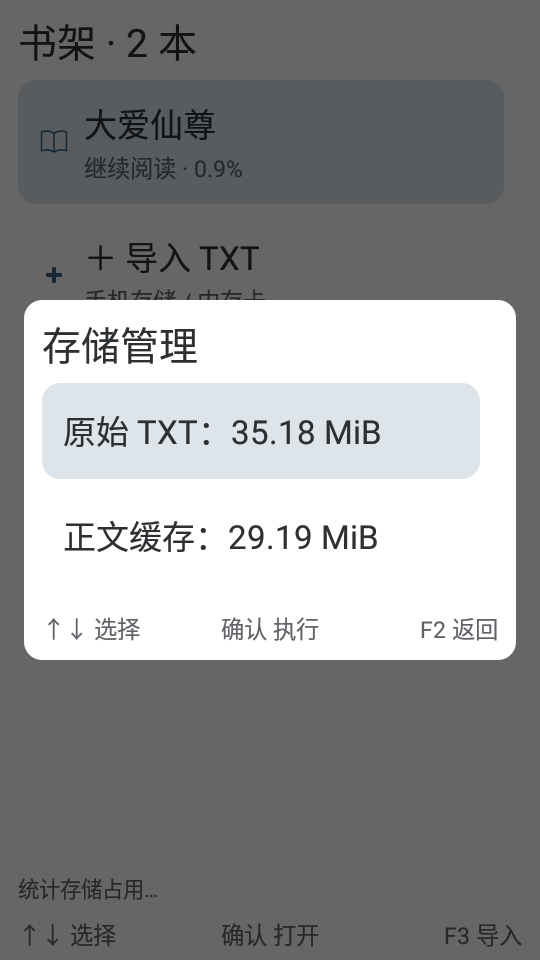
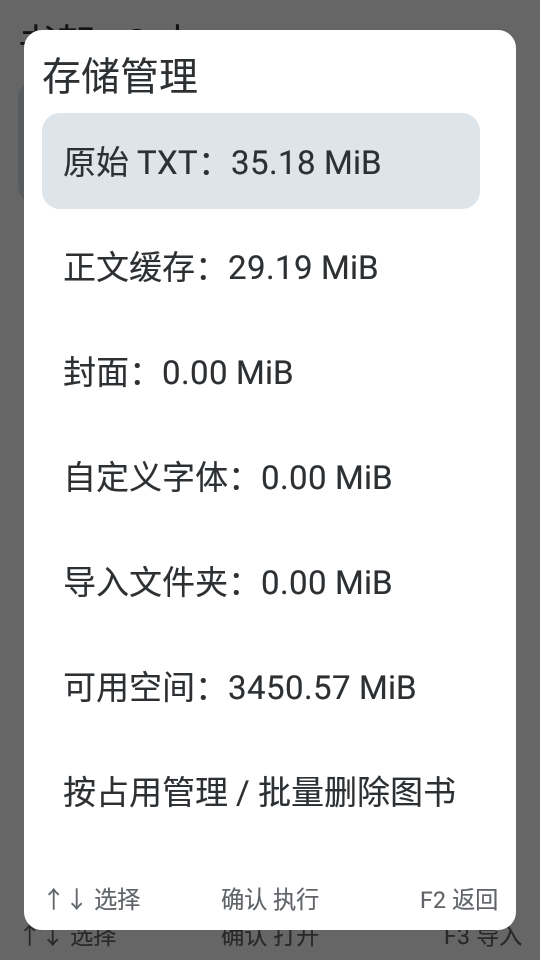
docs: record M2 release, device upgrade and focused validation

diff --git a/docs/superpowers/plans/2026-10-19-m2-daily-reading.md b/docs/superpowers/plans/2026-10-19-m2-daily-reading.md
@@ -30,8 +30,8 @@
 ## Task 1: Baseline and implementation record
 
 - [x] Preserve M1.5 work as local commit and tag; create feature branch.
-- [ ] Run baseline JVM/build/lint once; keep evidence in `tools/logs/m2-baseline.txt`.
-- [ ] Keep progress in `docs/M2_PROGRESS.md`; record interfaces and verification as work proceeds.
+- [x] Run baseline JVM/build/lint once; keep evidence in `tools/logs/m2-baseline.txt`.
+- [x] Keep progress in `docs/M2_PROGRESS.md`; record interfaces and verification as work proceeds.
 
 ## Task 2: Library lifecycle and storage (independent worker)
 
@@ -39,34 +39,34 @@
 
 **Produces:** `BookRepository.listPage(offset,limit)`, `count()`, `pageOf(id,size)`, `renameBook(id,title)`, `deleteBook(id)`, `removeBookmark(id,offset)`, `renameBookmark(id,offset,label)`, `ensureCache(id,observer)`, `rebuild(id,charset,observer)`; `CoverStore.remove(id)`; storage API specified in task brief.
 
-- [ ] Add focused deletion/upgrade/recovery tests, observe missing behavior before implementation where possible.
-- [ ] Implement v2 index migration, paged metadata and management, crash-safe book deletion and cache rebuild, validated source retention.
-- [ ] Implement storage scan/cache/import cleanup and allocated reserve, retained failed progress with bounded retry.
-- [ ] Report exact APIs and targeted evidence; root performs shared Android build/device run.
+- [x] Add focused deletion/upgrade/recovery tests, observe missing behavior before implementation where possible.
+- [x] Implement v2 index migration, paged metadata and management, crash-safe book deletion and cache rebuild, validated source retention.
+- [x] Implement storage scan/cache/import cleanup and allocated reserve, retained failed progress with bounded retry.
+- [x] Report exact APIs and targeted evidence; root performs shared Android build/device run.
 
 ## Task 3: Text search and TXT style boundary (independent worker)
 
 **Files:** new `TextSearcher.java` and JVM tests, `TxtPaginator.java`, new TXT document-session interface/adapter as specified in brief.
 
-- [ ] Write search tests for cross-8192-unit match, cancellation and bounded batches; observe RED.
-- [ ] Implement streaming/bounded search with snippets, continuation offset, no whole-book read.
-- [ ] Add configurable typeface to layout spec, retain existing constructor; expose a TXT session adapter behind a document-session contract.
-- [ ] Run targeted JVM tests and report exact APIs.
+- [x] Write search tests for cross-8192-unit match, cancellation and bounded batches; observe RED.
+- [x] Implement streaming/bounded search with snippets, continuation offset, no whole-book read.
+- [x] Add configurable typeface to layout spec, retain existing constructor; expose a TXT session adapter behind a document-session contract.
+- [x] Run targeted JVM tests and report exact APIs.
 
 ## Task 4: Native UI, navigation and settings integration
 
 **Files:** `MainActivity.java`, new `NavigationState.java`, `ReaderInputView.java`, `ReadingSettings.java`, optional controller/feature views; representative native tests.
 
-- [ ] Extract navigation state and reading settings, preserve existing measured key lifecycle.
-- [ ] Add native text/number input, search/continuation, jump and encoding workflows with cancellation tokens.
-- [ ] Add book/bookmark rename/delete and cover removal confirmation; paged shelf; storage multi-select and import cleanup.
-- [ ] Wire margin/line-height/typeface import and anchor-preserving relayout, automatic cache repair and progress retry on space recovery.
-- [ ] Add representative input, storage and location regression coverage; avoid visual matrix duplication.
+- [x] Extract navigation state and reading settings, preserve existing measured key lifecycle.
+- [x] Add native text/number input, search/continuation, jump and encoding workflows with cancellation tokens.
+- [x] Add book/bookmark rename/delete and cover removal confirmation; paged shelf; storage multi-select and import cleanup.
+- [x] Wire margin/line-height/typeface import and anchor-preserving relayout, automatic cache repair and progress retry on space recovery.
+- [x] Add representative input, storage and location regression coverage; avoid visual matrix duplication.
 
 ## Task 5: Verify, review and deliver
 
-- [ ] Build debug/test and release, run JVM suite and targeted native tests on an explicit device.
-- [ ] Request one independent whole-change review focused on data lifecycle/input/stale tasks; fix substantial findings with covering checks.
-- [ ] Produce versioned signed candidate with hashes/source record; preserve previous APKs.
-- [ ] If device is usable, cover-install release and perform short data-preserving smoke. Record actual limitations, update README/HANDOFF/M2 validation.
-- [ ] Commit final sources and report APK, meaningful checks and remaining manual trial items.
+- [x] Build debug/test and release, run JVM suite and targeted native tests on an explicit device.
+- [x] Request one independent whole-change review focused on data lifecycle/input/stale tasks; fix substantial findings with covering checks.
+- [x] Produce versioned signed candidate with hashes/source record; preserve previous APKs.
+- [x] If device is usable, cover-install release and perform short data-preserving smoke. Record actual limitations, update README/HANDOFF/M2 validation.
+- [x] Commit final sources and report APK, meaningful checks and remaining manual trial items.

diff --git a/docs/M2_VALIDATION.md b/docs/M2_VALIDATION.md
@@ -26,9 +26,21 @@
 
 真机使用独立 `com.sh02l.reader.debug` 及 test 包，隔离夹具；未向正式书库添加测试书籍。正式升级前观察书架为《大爱仙尊》《遮天》两本，《大爱仙尊》继续阅读显示 0.9%。当前 Books 来源文件的哈希与目录元数据另存电脑，升级后核对。
 
-## 仍待完成的交付记录
+## 正式候选与覆盖升级
 
-release 签名、安装包来源与覆盖升级抽查在本轮执行后填入。
+- 最终候选：`dist/v0.3.1-m2/SH02LReader-v0.3.1-m2.apk`，86,692 字节，versionCode 6。
[1 lines of base64/hex data omitted]
+- 编译来源：`8d0df6441d58161ce9fb5d693ad927186a19ec6e`；主体功能提交 `0ee9319`，M1.5 基线 `f6417b5`。
[1 lines of base64/hex data omitted]
+- 已在 SH-02L 覆盖安装 `0.3.1-m2`，从手机拉取安装 APK 比对 SHA-256 一致；正式读写权限保留 granted=true。
+- 原有《大爱仙尊》《遮天》两本保留，分别显示 0.9% 和 0.0%。升级后实际打开《大爱仙尊》，强制停止再打开仍为 `0.9% · UTF-8 · 18号`；最终回到可操作书架。
+- Books 来源文件哈希和升级前一致，目录元数据抽查一致；未对正式书库增加测试图书，未清空正式数据。
+- 最后界面检查修正了异步加载后面板仍使用占位高度的问题，并清除已完成的加载提示。`0.3.0-m2` 安装候选保留，最终升为 `0.3.1-m2`；[真机存储页](images/m2/storage-sh02l.png) 已目视检查，面板使用可用空间、文字和软键无裁切。
+- 核心 51/23/14 回归在主体功能和审查修正完成后执行；0.3.1 的局部面板刷新使用 release/Lint、真实界面与升级重启检查，没有重复整轮原生回归。
+- 手机独立 debug/test 包及其夹具已卸载，只有正式 `com.sh02l.reader` 保留；本轮远端临时 XML/截图已移除，电脑证据保留，自用模拟器已关闭。
[1 lines of base64/hex data omitted]
+
+证据位于 `tools/logs/m2-*.txt/xml`、`instrumentation-m2-integrated.txt`、`instrumentation-m2-final-phone.txt`；发布目录记录签名、来源、校验值、变更说明和本报告。
 
 ## 边界
 

diff --git a/docs/M2_PROGRESS.md b/docs/M2_PROGRESS.md
@@ -14,4 +14,8 @@ Plan: `docs/superpowers/plans/2026-10-19-m2-daily-reading.md`
 - Native integrated: emulator 23/23 pass; first phone 11/11 pass. Independent review identified two P2 lifecycle bugs, both reproduced in two focused failing native cases.
 - Final fix pass: duplicates now verify original identity while retaining selected encoding/cache state; deletion invalidates live positions and pending/dequeued progress generations. Added controlled repository-lock ordering case.
 - Final verify: 51 JVM cases, debug/test and Lint pass. Final SH-02L 14/14 cases pass (27.932s), including both RED→GREEN regressions and dequeued write invalidation.
-- Formal pre-upgrade shelf observed 2 books, 大爱仙尊 at 0.9%, 遮天 at 0.0%; original Books hashes/metadata saved. Pending: release build/package and data-preserving upgrade smoke.
+- Formal pre-upgrade shelf observed 2 books, 大爱仙尊 at 0.9%, 遮天 at 0.0%; original Books hashes/metadata saved.
+- UI QA: async placeholder panel retained its small height; fixed targeted refresh and loading text, version 0.3.1-m2/code6. Release/Lint passed; actual SH-02L storage panel visually verified. Earlier 0.3.0 candidate preserved.
+- Release source `8d0df64`, APK 86,692 bytes, SHA256 dd065bfd81d99d8074537b6f6597f4353c79b26866d7c468485367a3bebaaf3e. Same certificate and installed bytes verified.
+- Cover upgrade and force-stop/reopen preserve both books and displayed progress; external Books hashes unchanged. Own debug/test packages and remote temporary captures removed, emulator closed, crash buffer unchanged.
+- Complete: implementation, focused tests, independent review and fixes, source commits, signed candidate, real-device upgrade/QA and cleanup. Local branch retained; M3/Chinese IME composition/long trial boundaries recorded in M2_VALIDATION.

diff --git a/docs/HANDOFF.md b/docs/HANDOFF.md
@@ -8,6 +8,8 @@
 
 入口：`NavigationState` 保存页面/选择，`ReaderInputView` 负责原生输入，`ReadingSettings/FontStore` 管理排版和单份字体，`ReaderFeatures` 管理搜索/跳转/编码，`LibraryFeatures/StorageManager` 管理显式删除和空间；`DocumentSession/TxtDocumentSession` 提供 seek/move 边界。MainActivity 继续负责窗口和生命周期。删除还需失效该 id 的内存定位与异步进度代次，避免同 ID 重导入恢复被删除的进度。
 
+已交付并覆盖安装最终 `0.3.1-m2` / code 6，86,692 字节，APK 来源 `8d0df64`。51 项 JVM、模拟器 23 项和真机最终 14 项关键回归通过；独立审查两个 P2 已修正。最终面板刷新经 release/Lint 与真机目视检查。原两本书、0.9% 阅读进度和 Books 原文件保留，debug/test 包清理完成。下一步是用户试读反馈和 M3，而非重复实现 M2。
+
 执行清单见 [M2 计划](superpowers/plans/2026-10-19-m2-daily-reading.md)，候选与实际验证以 [M2 验证](M2_VALIDATION.md) 为准。中文系统输入法组合、真实来电/合盖及长期试读仍需用户反馈，M3 性能预算和 EPUB 未列为已完成。不重复 M1.5 主题问答或大规模视觉排列。
 
 以下为 M1.5 历史交付记录。
